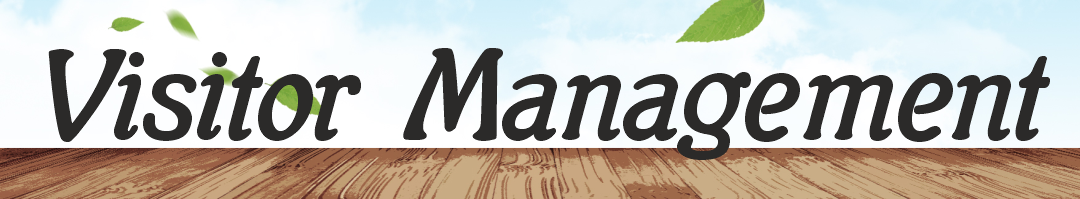
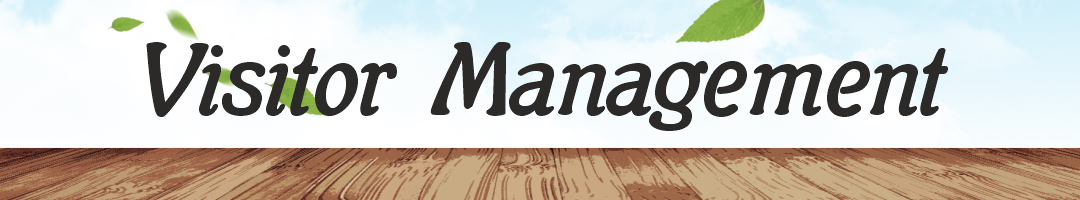
Added search bar for expired bookings page and optimised hero image

Changed region(s): [[0.0, 0.2111, 1.0, 1.0], [0.5806, 0.9045, 0.6417, 0.9648], [0.55, 0.9347, 0.5806, 0.9648]]

diff --git a/home/templates/home/expired_booking.html b/home/templates/home/expired_booking.html
@@ -8,6 +8,18 @@
 			<!-- DataTales Example -->
 			<div class="card shadow mb-4">
 				<div class="card-body">
+					<div class="text-right mb-3">
+						<form method="post">
+							{% csrf_token %}
+							<div class="input-group">
+								<input type="text" placeholder="Search Employee or Name of Visitor or Date in format DD-MM-YYYY" class="form-control" name="search" {% if search_query %}value="{{ search_query }}"{% endif %}>
+								<div class="input-group-append">
+									<input class="btn btn-outline-dark" type="hidden">
+									<button class="btn btn-outline-dark" type="submit"><i class="fa fa-search"></i> Search</button>
+								</div>
+							</div>
+						</form>
+					</div>
 					<div class="table-responsive">
 						<table class="table table-bordered" id="dataTable" width="100%" cellspacing="0">
 							<thead>
@@ -15,7 +27,7 @@
 									<th> Name </th>
 									<th> Email </th>
 									<th> Phone no. </th>
-									{% comment %} <th> Date </th> {% endcomment %}
+									<th> Visiting Employee </th>
 									<th> Expected In Time </th>
 									<th> Purpose </th>
 								</tr>
@@ -26,7 +38,7 @@
 									<td>{{ visitor.name }}</td>
 									<td>{{ visitor.email }}</td>
 									<td>{{ visitor.mobile }}</td>
-									{% comment %} <td>{{ visitor.in_time.date }}</td> {% endcomment %}
+									<td>{{ visitor.user }}</td>
 									<td>{{ visitor.expected_in_time }}</td>
 									<td>{{ visitor.purpose}}</td>
 								</tr>

diff --git a/entry/views.py b/entry/views.py
@@ -86,7 +86,7 @@ def generateQR(id, qrtype):
 def scanQR(request, **kwargs):
 	display_visitors = Visitor.objects.filter(session_expired=False)
 	visitor = display_visitors.get(id=kwargs.get('id'))
-	frame = request.POST["qrimgdata"]
+	frame = request.POST['qrimgdata']
 	Read = pb.decode(frame)
 	for ob in Read:
 		readData = str(ob.data.rstrip().decode('utf-8'))
@@ -113,13 +113,12 @@ def scanQR(request, **kwargs):
 		
 def send_normal_email(Visitor):
 	to_email = Visitor.user.email
-	print(to_email)
 	if Visitor.out_time:
 		subject = Visitor.name + ' has left Atlas Copco Campus'
-		message = 'Hello!\n\n\t' + Visitor.name + ' has left the Atlas Copco campus at ' + str(Visitor.out_time.date()) + ' ' + Visitor.out_time.strftime("%X") + '.'
+		message = 'Hello!\n\n\t' + Visitor.name + ' has left the Atlas Copco campus at ' + str(Visitor.out_time.date()) + ' ' + str(Visitor.out_time.strftime("%X")) + '.'
 	else:
 		subject = Visitor.name + ' is visiting Atlas Copco'
-		message = 'Hello!\n\n\t' + Visitor.name + ' is visiting the Atlas Copco campus at ' + str(Visitor.in_time.date()) + ' ' + Visitor.in_time.strftime("%X") + 'with ' + Visitor.actual_visitors + '.'
+		message = 'Hello!\n\n\t' + Visitor.name + ' is visiting the Atlas Copco campus at ' + str(Visitor.in_time.date()) + ' ' + str(Visitor.in_time.strftime("%X")) + 'with ' + Visitor.actual_visitors + '.'
 	email = EmailMessage(subject, message, settings.EMAIL_HOST_USER, [to_email])
 	email.content_subtype='html'
 	email.send(fail_silently=False)
@@ -130,7 +129,6 @@ def send_qrcode_email(to_email, qrcodeimg):
 			PFA an attached QR Code which you will have to show when you leave our premises!'''
 	email = EmailMessage(subject, message, settings.EMAIL_HOST_USER, [to_email])
 	email.content_subtype='html'
-	print(to_email)
 	with open(os.path.join(settings.BASE_DIR, '') + qrcodeimg, mode='rb') as file:
 		email.attach(os.path.join(settings.BASE_DIR, '') + qrcodeimg, file.read(), 'image/png')
 	

diff --git a/home/views.py b/home/views.py
@@ -120,12 +120,37 @@ class NotVisitedListView(LoginRequiredMixin, ListView):
 
 		return render(request, 'home/not_visited.html', context)
 
-class VisitExpiredListView(LoginRequiredMixin, ListView):
-	def get(self, request):
-		expired = Visitor.objects.filter(session_expired=True)
-		context = {'visitor_list': expired}
 
-		return render(request, 'home/expired_booking.html', context)
+def expiredBooking(request):
+	expired = Visitor.objects.filter(session_expired=True)
+	context = {'visitor_list': expired}
+	if request.method == 'POST':
+		search_query = request.POST['search']
+		search_date = ''
+		try:
+			search_date = datetime.strptime(search_query, '%d-%m-%Y')
+			print(search_date)
+		except:
+			pass
+		try:
+			user = User.objects.get(username__icontains=search_query)
+		except:
+			user = None
+		visitor_list_employee = expired.filter(user=user)
+		if search_date:
+			visitor_list_intime = expired.filter(expired_in_time__date = search_date)
+		else:
+			visitor_list_intime = expired.filter(user=None)
+		visitor_list_name = expired.filter(name__icontains=search_query)
+		visitor_list = visitor_list_employee.union(visitor_list_intime, visitor_list_name)
+		if search_query == '':
+			visitor_list = expired
+		context = {'visitor_list': visitor_list, 'search_query': search_query}
+	else:
+		visitor_list = expired
+
+
+	return render(request, 'home/expired_booking.html', context)
 
 class AllVisitedListView(LoginRequiredMixin, ListView):
 	def get(self, request):
@@ -201,7 +226,7 @@ def get_table_data(request):
 	search_query = ''
 	if request.method == 'POST':
 		search_query = request.POST['search']
-		search_date = None
+		search_date = ''
 		try:
 			search_date = datetime.strptime(search_query, '%d-%m-%Y')
 			print(search_date)

diff --git a/home/urls.py b/home/urls.py
@@ -7,7 +7,7 @@ urlpatterns = [
 	path('login/', views.login_validate, name='login'),
 	path('signup/', views.signup, name='user-signup'),
 	path('', views.VisitorListView.as_view(), name='home'),
-	path('expired/', views.VisitExpiredListView.as_view(), name='disabled'),
+	path('expired/', views.expiredBooking, name='disabled'),
 	path('notvisited/', views.NotVisitedListView.as_view(), name='not-visited'),
 	path('allvisitors/', views.AllVisitedListView.as_view(), name='all-visitors'),
 	path('edit/visitor/<int:pk>/', views.VisitorDetailView.as_view(), name='visitor-detail'),
